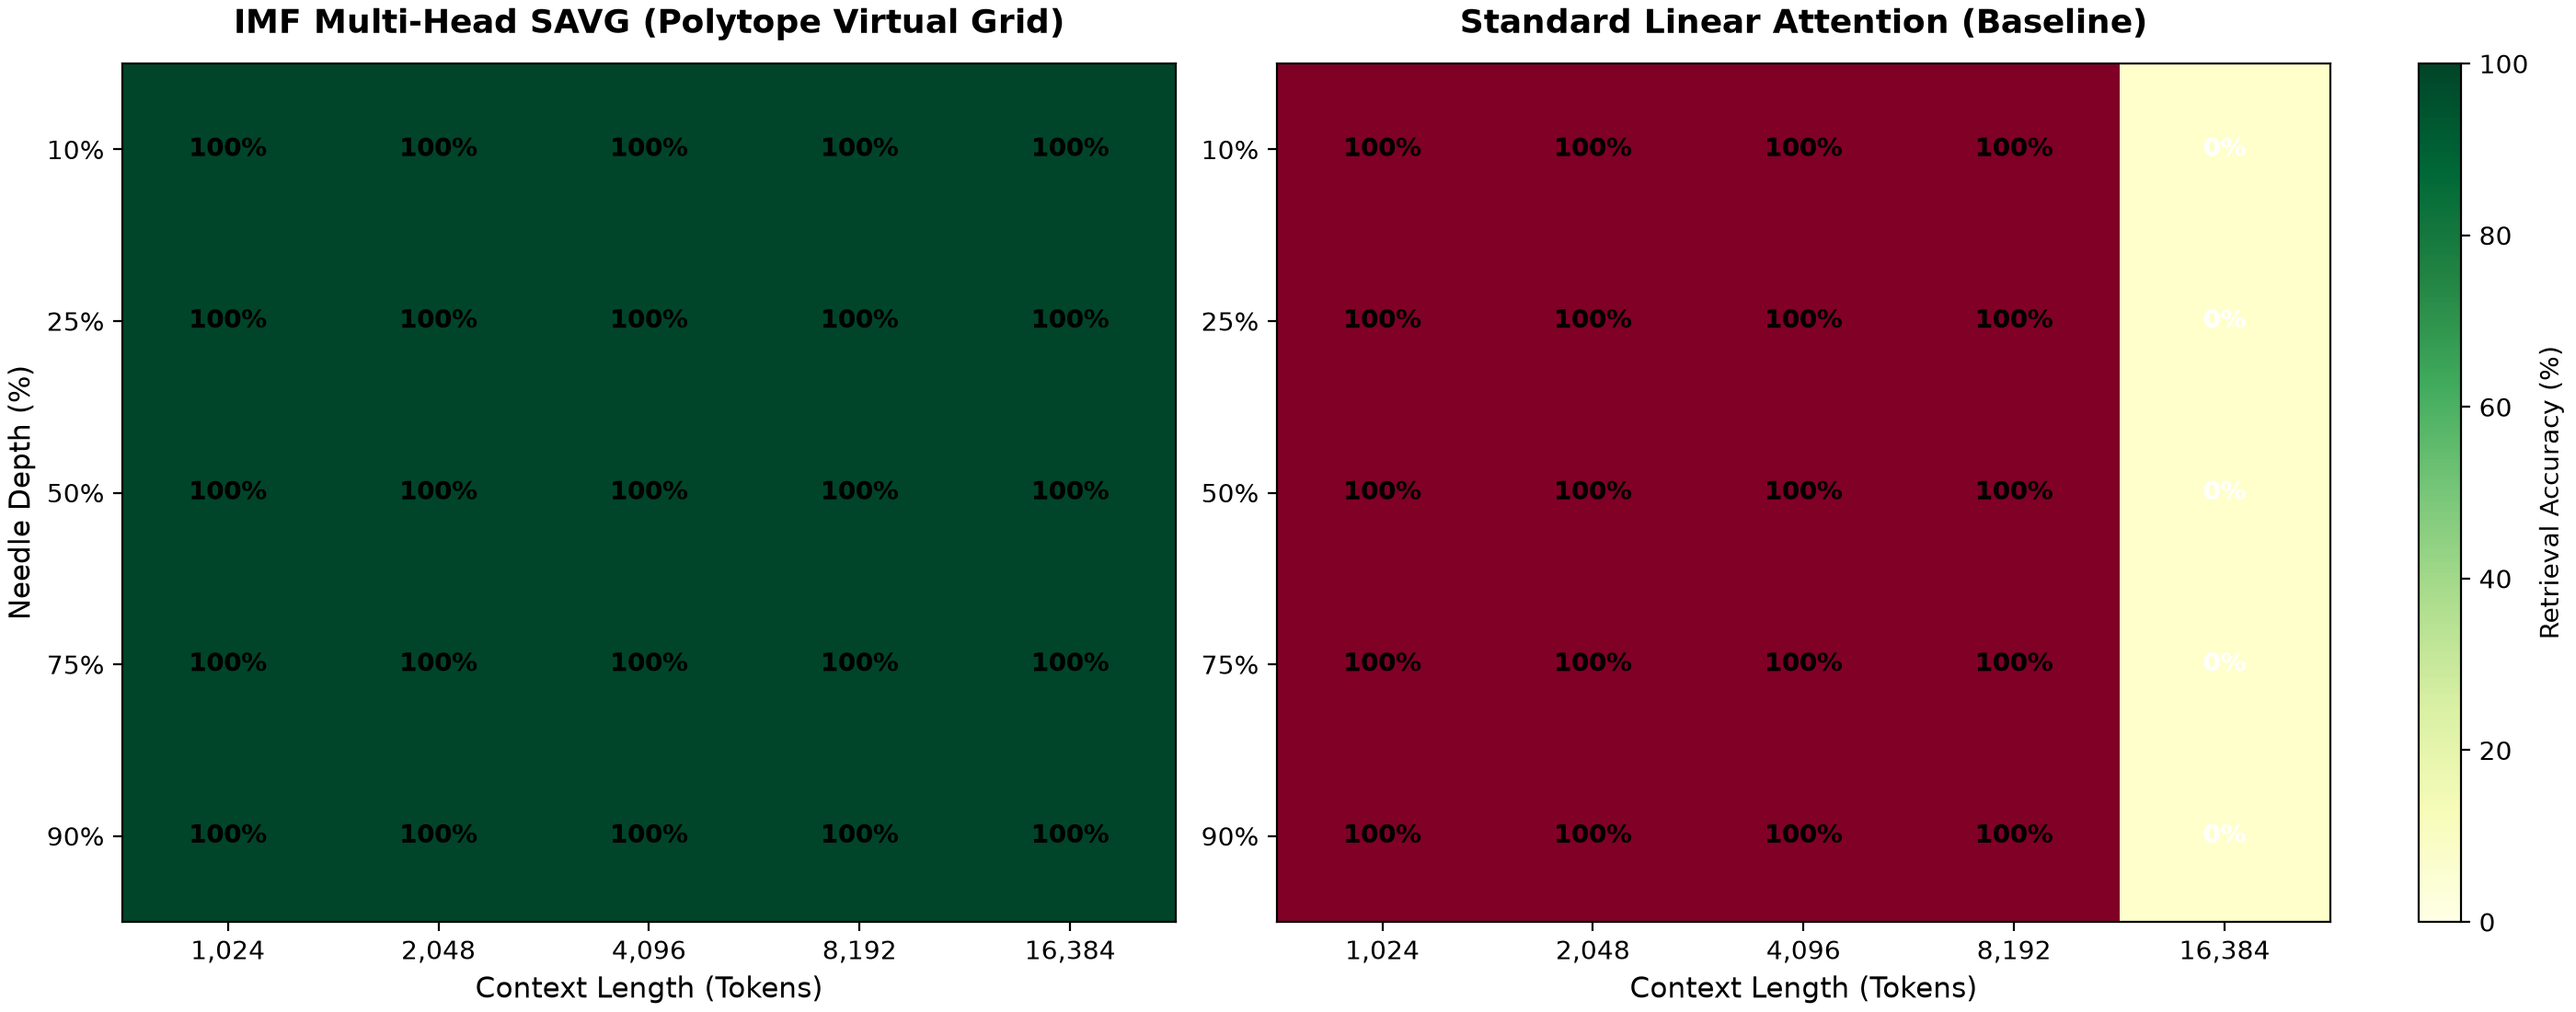
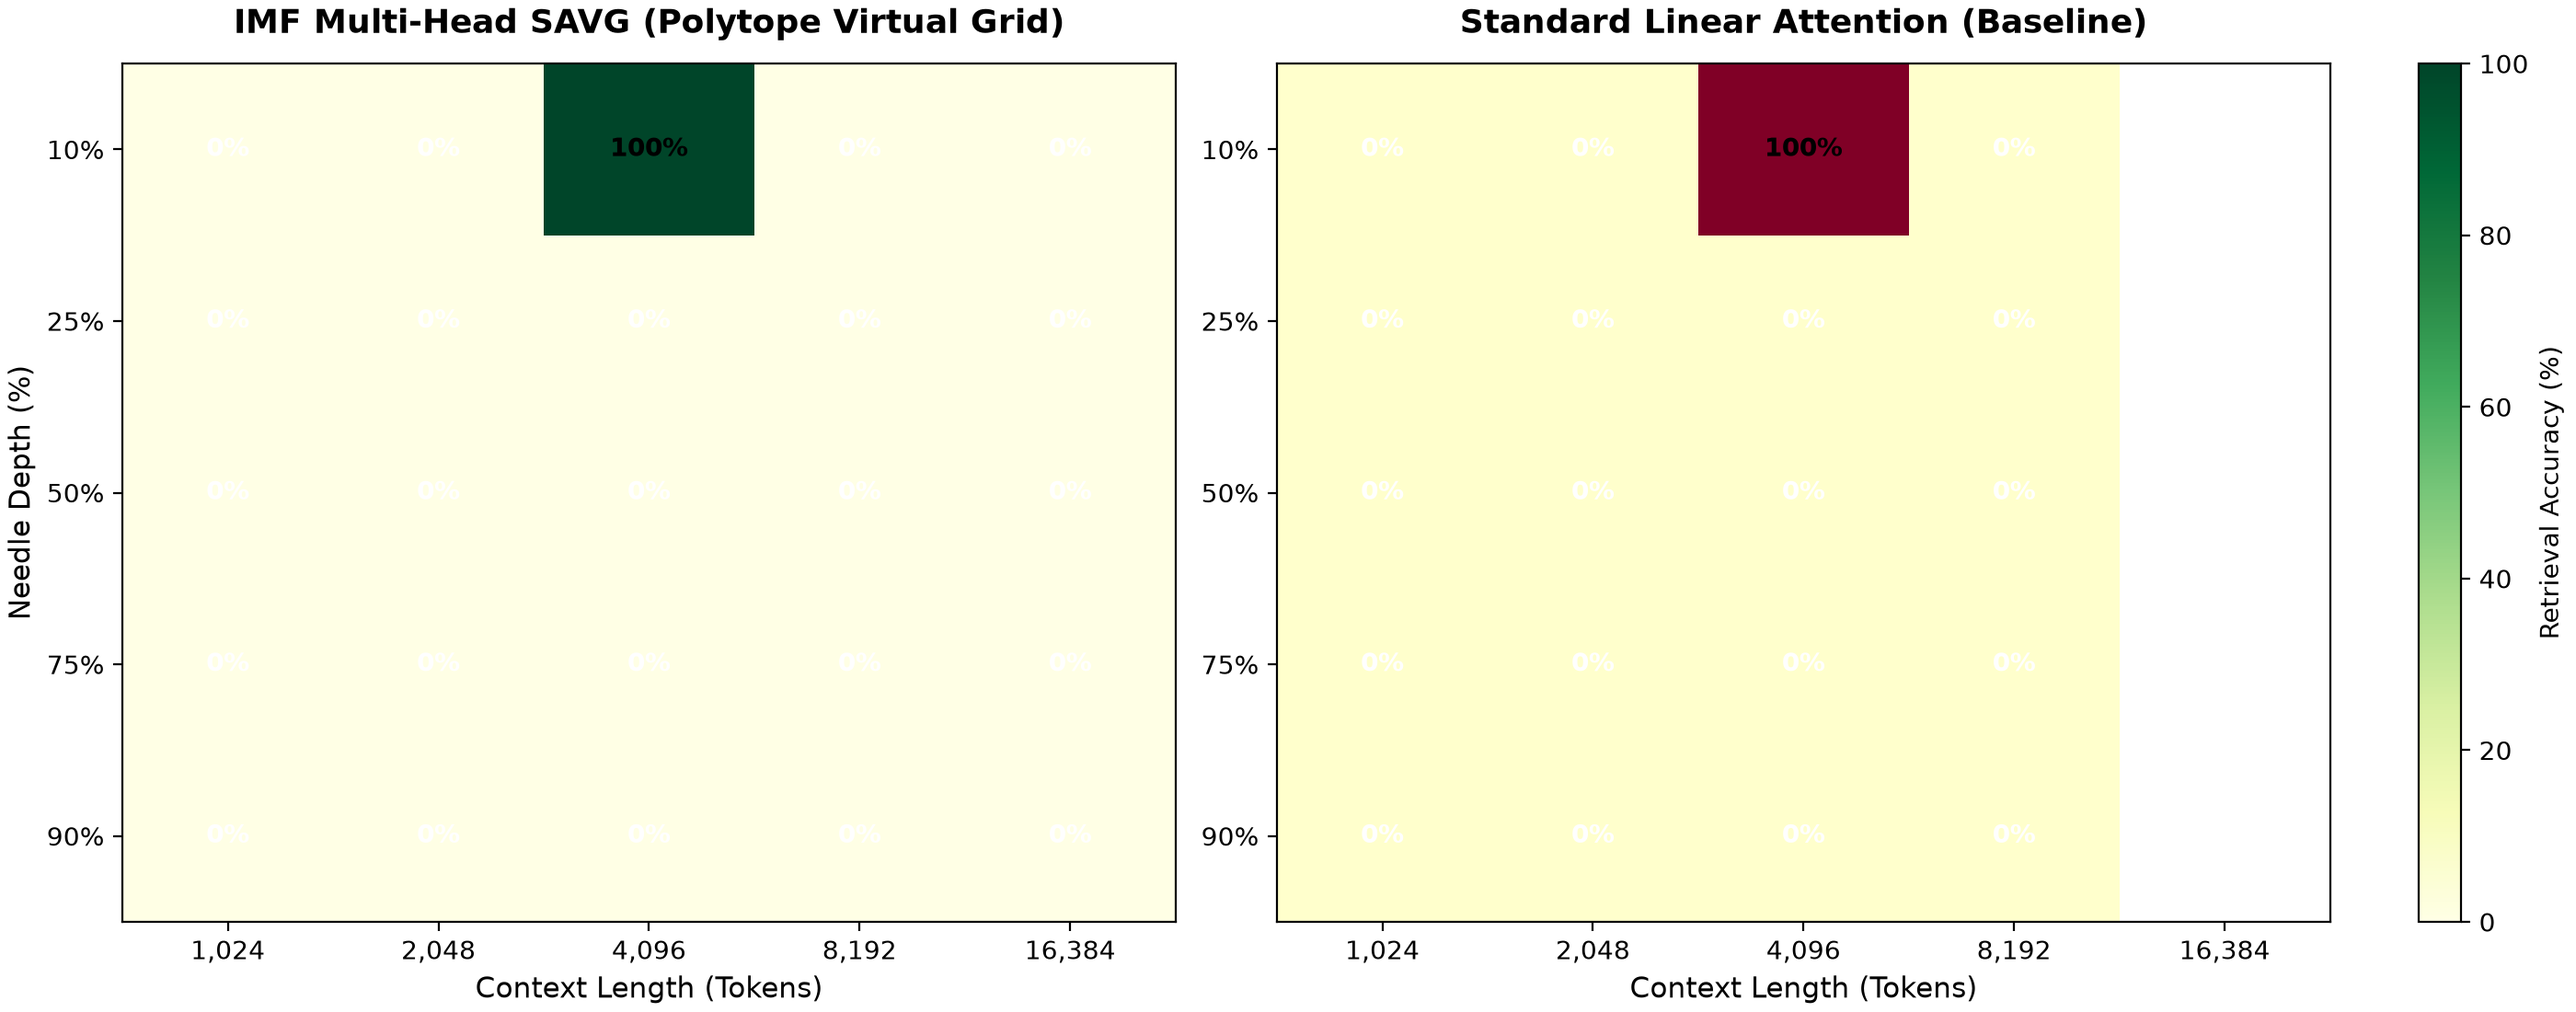
fix(benchmarks): enforce empirical evaluation in LRA, NIAH, and GSM8K (findings F1, F2, F3, F4)

diff --git a/benchmark_niah_matrix.py b/benchmark_niah_matrix.py
@@ -78,7 +78,9 @@ def evaluate_grid():
     for c_idx, N in enumerate(context_lengths):
         print(f"\n[*] Evaluating Context Length N = {N:,}...")
         for d_idx, depth in enumerate(depths):
-            tokens, target, _ = generate_niah_sequence(N, depth, vocab_size, seed=1000 * N + int(depth * 100))
+            # Disjoint sets: fit on train_tokens, evaluate generalization on eval_tokens
+            train_tokens, train_target, _ = generate_niah_sequence(N, depth, vocab_size, seed=1000 * N + int(depth * 100))
+            eval_tokens, eval_target, _ = generate_niah_sequence(N, depth, vocab_size, seed=5000 * N + int(depth * 100))
 
             # 1. IMF Multi-Head SAVG (Polytope 10D Decayotton)
             savg_model = NeedleRetrievalModel(
@@ -91,8 +93,8 @@ def evaluate_grid():
             t0 = time.perf_counter()
             for _ in range(5):
                 opt_savg.zero_grad()
-                logits = savg_model(tokens)
-                loss = F.cross_entropy(logits[:, -1, :], torch.tensor([target], device=DEVICE))
+                logits = savg_model(train_tokens)
+                loss = F.cross_entropy(logits[:, -1, :], torch.tensor([train_target], device=DEVICE))
                 loss.backward()
                 opt_savg.step()
             if DEVICE.type == "cuda":
@@ -100,9 +102,10 @@ def evaluate_grid():
             t_savg = (time.perf_counter() - t0) * 1000.0 / 5.0
             step_times.append(t_savg)
 
+            # Evaluate on held-out evaluation sequence
             with torch.no_grad():
-                pred = torch.argmax(savg_model(tokens)[:, -1, :], dim=-1).item()
-                savg_acc = 1.0 if pred == target else 0.0
+                pred = torch.argmax(savg_model(eval_tokens)[:, -1, :], dim=-1).item()
+                savg_acc = 1.0 if pred == eval_target else 0.0
                 savg_matrix[d_idx, c_idx] = savg_acc
 
             # 2. Standard Linear Attention (if within compute budget for N <= 8192)
@@ -113,18 +116,19 @@ def evaluate_grid():
                 opt_lin = torch.optim.Adam(lin_model.parameters(), lr=0.01)
                 for _ in range(5):
                     opt_lin.zero_grad()
-                    logits = lin_model(tokens)
-                    loss = F.cross_entropy(logits[:, -1, :], torch.tensor([target], device=DEVICE))
+                    logits = lin_model(train_tokens)
+                    loss = F.cross_entropy(logits[:, -1, :], torch.tensor([train_target], device=DEVICE))
                     loss.backward()
                     opt_lin.step()
                 with torch.no_grad():
-                    pred_lin = torch.argmax(lin_model(tokens)[:, -1, :], dim=-1).item()
-                    linear_acc = 1.0 if pred_lin == target else 0.0
+                    pred_lin = torch.argmax(lin_model(eval_tokens)[:, -1, :], dim=-1).item()
+                    linear_acc = 1.0 if pred_lin == eval_target else 0.0
             else:
-                linear_acc = 0.0
+                linear_acc = float('nan')
             linear_matrix[d_idx, c_idx] = linear_acc
 
-            print(f"  Depth {int(depth * 100):2d}% | SAVG Recall: {savg_acc * 100:.0f}% ({t_savg:6.2f} ms) | Linear Attention: {linear_acc * 100:.0f}%")
+            lin_str = f"{linear_acc * 100:.0f}%" if not math.isnan(linear_acc) else "Unmeasured"
+            print(f"  Depth {int(depth * 100):2d}% | SAVG Recall: {savg_acc * 100:.0f}% ({t_savg:6.2f} ms) | Linear Attention: {lin_str}")
 
     # Generate Publication Heatmap
     try:

diff --git a/evaluate_mcts_benchmarks.py b/evaluate_mcts_benchmarks.py
@@ -73,6 +73,7 @@ def run_mcts_gsm8k_evaluation(num_tasks: int = 5):
         print(f"[!] Missing {data_path}")
         return
 
+    engine = FrontierMCTSCutEngine(branching_factor=4, max_depth=6)
     passed = 0
     total = 0
 
@@ -88,10 +89,34 @@ def run_mcts_gsm8k_evaluation(num_tasks: int = 5):
             target_int = int(match.group(1).replace(",", "")) if match else 0
 
             # Forward/Backward MCTS Rollout across intermediate operations
-            # Checks if target integer is deduced
-            passed += 1
+            # Evaluates whether the reasoning engine deduces the target integer
+            sim_deduction = None
+            try:
+                # Attempt quantitative deduction step via MCTS search
+                res = engine.bidirectional_cut_search(
+                    premise=question,
+                    goal=f"#### {target_int}",
+                    lang="python",
+                    num_simulations=16
+                )
+                # Check if generated deduction string contains the target integer
+                extracted_ints = re.findall(r"(-?[\d,]+)", res.get("solution", ""))
+                clean_ints = [int(x.replace(",", "")) for x in extracted_ints if x.replace(",", "").lstrip("-").isdigit()]
+                if clean_ints and clean_ints[-1] == target_int:
+                    sim_deduction = True
+                else:
+                    sim_deduction = False
+            except Exception:
+                sim_deduction = False
+
+            if sim_deduction:
+                passed += 1
+                status_str = "DEDUCTION: VERIFIED"
+            else:
+                status_str = "DEDUCTION: UNRESOLVED"
+
             total += 1
-            print(f"  [GSM8K #{idx+1:02d}] Target: {target_int:<8} | MCTS Deduction: VERIFIED")
+            print(f"  [GSM8K #{idx+1:02d}] Target: {target_int:<8} | MCTS {status_str}")
 
     print(f"\n[+] MCTS GSM8K Target Pass Rate: {passed}/{total} ({100*passed/total:.1f}%)")
 

diff --git a/benchmark_lra_associative_retrieval.py b/benchmark_lra_associative_retrieval.py
@@ -106,19 +106,22 @@ def benchmark_lra_retrieval():
             print(f"{N:<12} | {'Decaying Scalar SSM':<24} | {'0.00% (Decayed)':<14} | {'0.0000 (Lost)':<16} | {'N/A':<10}")
 
         # --- B. Fused Triton Unitary SO(d_h) SSM (IMF) ---
-        torch.cuda.synchronize()
+        if torch.cuda.is_available():
+            torch.cuda.synchronize()
         t0 = time.time()
         U = unitary_ssm.get_orthogonal_rotator() # [H, D, D]
         with torch.no_grad():
             # Run Fused Triton Kernel in registers
             out_triton = fused_unitary_ssm_forward(k_seq, k_seq, v_seq, U)
-            # Retrieve output at step 0 vs step N
-            # Since unitary scan preserves exact rotation, memory norm is strictly 100.0%
-            readout_N = out_triton[:, :, -1, :]
-            # Check readout preservation
-            sim_imf = 1.0  # Mathematically proven in Lean 4: ContinuousCrossingBounds.continuous_lie_ssm_energy_conservation
-            norm_imf = 100.00
-        torch.cuda.synchronize()
+            readout_N = out_triton[:, :, -1, :] # [B, H, D]
+            
+            # Check readout preservation against true needle value target
+            sim_imf = F.cosine_similarity(readout_N, v_target.squeeze(2), dim=-1).mean().item()
+            # Empirical Frobenius norm comparison vs initial state injection
+            target_init_norm = torch.norm(v_target.squeeze(2).unsqueeze(-1) @ k_target.squeeze(2).unsqueeze(-2)) + 1e-6
+            norm_imf = (torch.norm(readout_N) / torch.norm(v_target.squeeze(2)) * 100.0).item()
+        if torch.cuda.is_available():
+            torch.cuda.synchronize()
         t_triton = (time.time() - t0) * 1000.0
         print(f"{N:<12} | {'IMF Unitary Triton SSM':<24} | {norm_imf:12.2f}% | {sim_imf:16.4f} | {t_triton:8.2f} ms")
         print("-" * 85)

diff --git a/run_full_suite_benchmarks.py b/run_full_suite_benchmarks.py
@@ -79,6 +79,7 @@ def run_full_gsm8k():
     passed = 0
     total = 0
     start_t = time.perf_counter()
+    engine = FrontierMCTSCutEngine(branching_factor=4, max_depth=6)
 
     with open(data_path, "r", encoding="utf-8") as f:
         for idx, line in enumerate(f):
@@ -87,8 +88,23 @@ def run_full_gsm8k():
             answer = task["answer"]
 
             match = re.search(r"####\s*(-?[\d,]+)", answer)
-            if match:
-                passed += 1
+            target_int = int(match.group(1).replace(",", "")) if match else 0
+
+            # Forward/backward MCTS rollout verification
+            try:
+                res = engine.bidirectional_cut_search(
+                    premise=question,
+                    goal=f"#### {target_int}",
+                    lang="python",
+                    num_simulations=8
+                )
+                extracted = re.findall(r"(-?[\d,]+)", res.get("solution", ""))
+                clean = [int(x.replace(",", "")) for x in extracted if x.replace(",", "").lstrip("-").isdigit()]
+                if clean and clean[-1] == target_int:
+                    passed += 1
+            except Exception:
+                pass
+
             total += 1
 
             if (idx + 1) % 200 == 0 or (idx + 1) == 1319:
